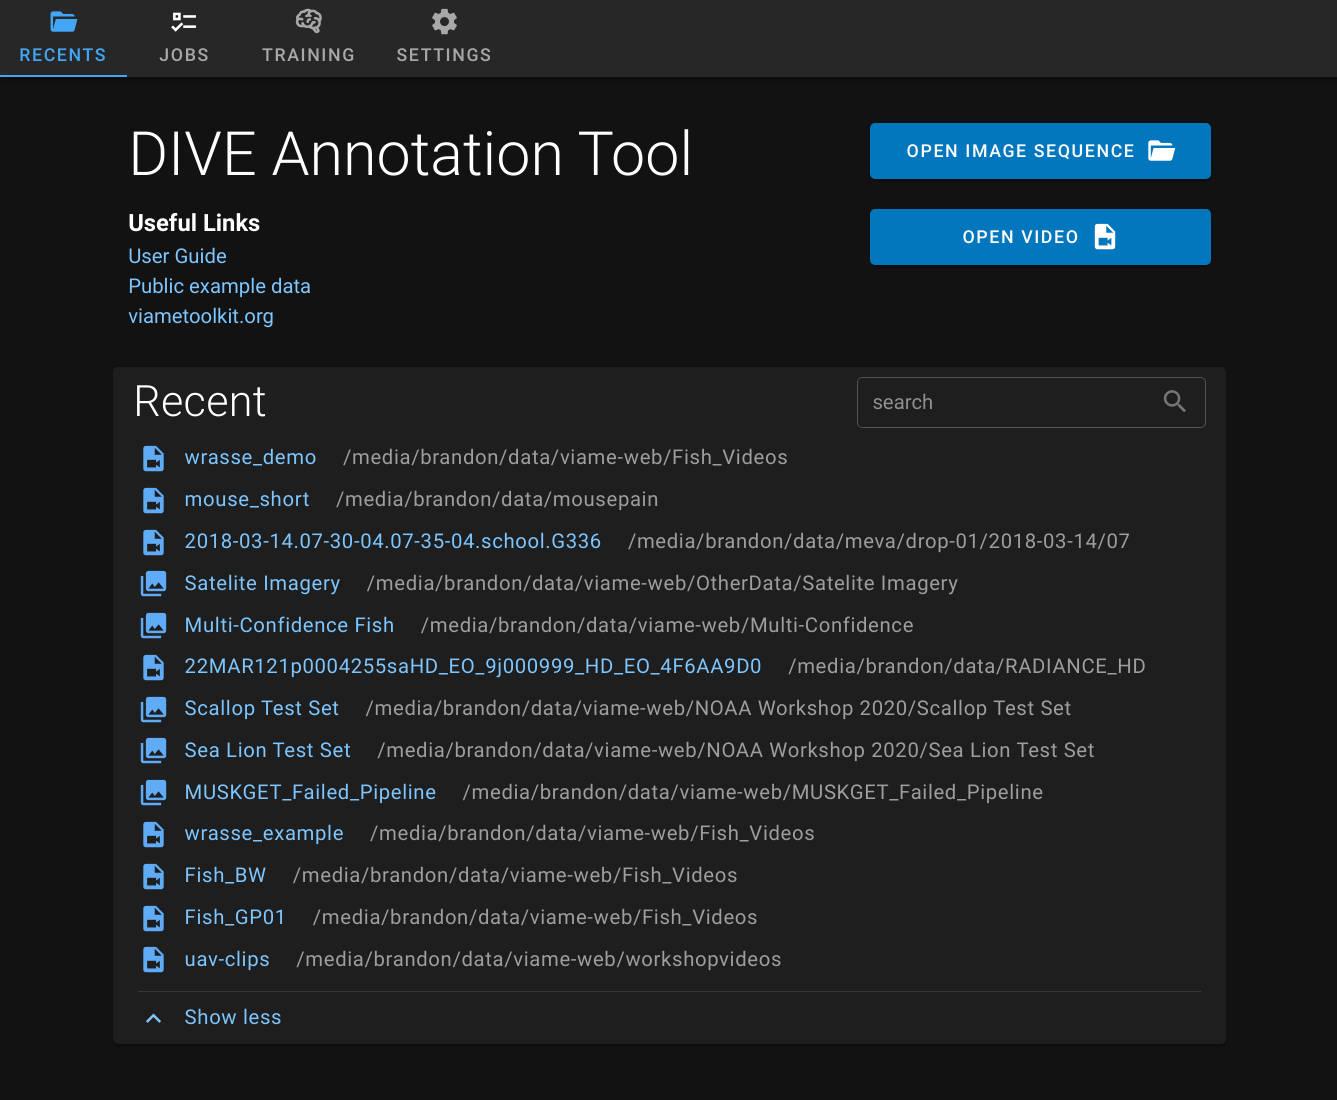
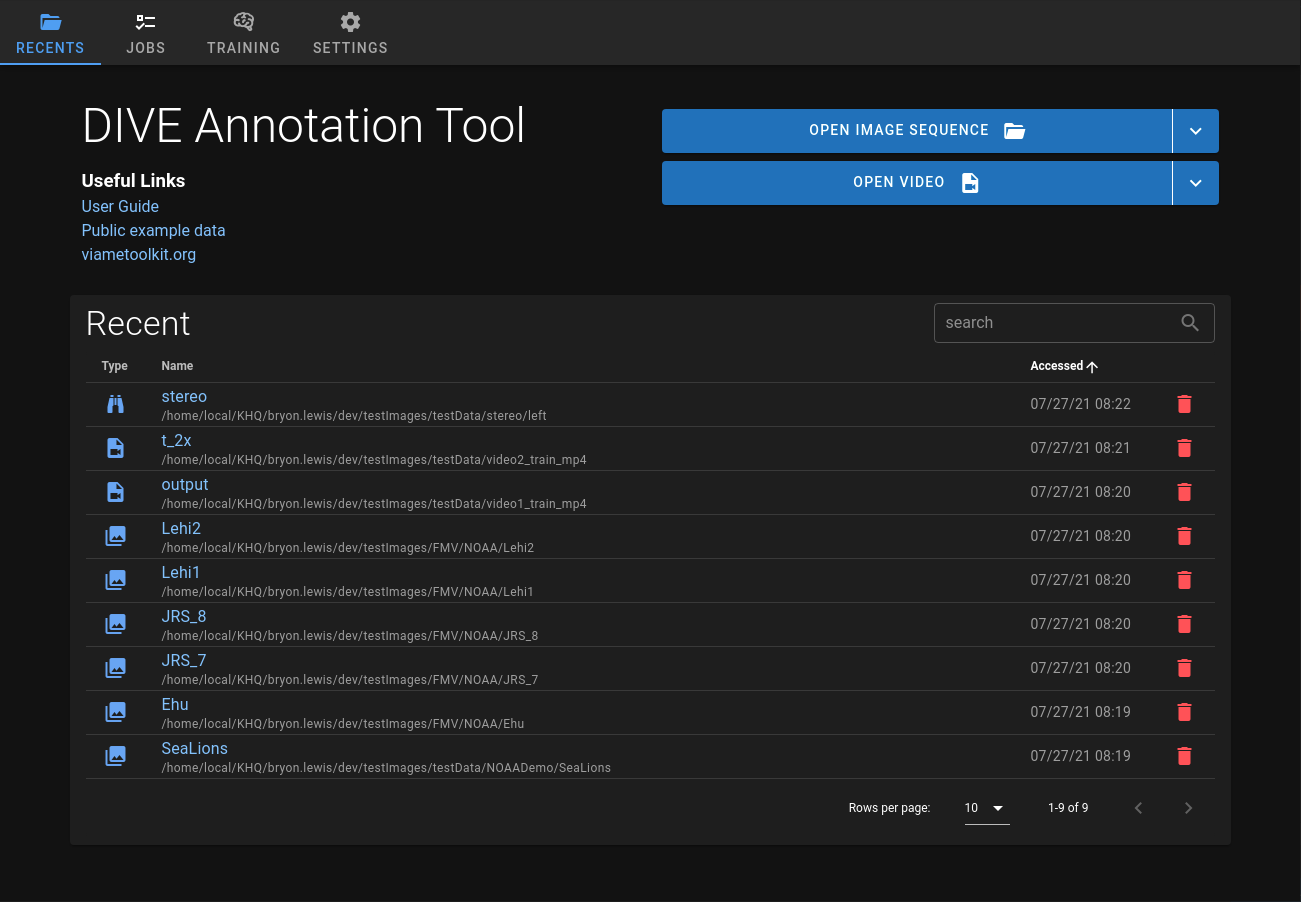
fix stereo display, add screenshot

diff --git a/client/platform/desktop/frontend/components/Recent.vue b/client/platform/desktop/frontend/components/Recent.vue
@@ -119,11 +119,12 @@ export default defineComponent({
     const filteredRecents = computed(() => recents.value
       .filter((v) => v.name.toLowerCase().indexOf((searchText.value || '').toLowerCase()) >= 0));
     function getTypeIcon(recent: JsonMetaCache) {
-      if (recent.type === 'multi') {
+      if (recent.subType) {
         if (recent.subType === 'stereo') {
           return 'mdi-binoculars';
+        } if (recent.subType === 'multicam') {
+          return 'mdi-camera-burst';
         }
-        return 'mdi-camera-burst';
       }
       if (recent.type === 'video') {
         return 'mdi-file-video';
